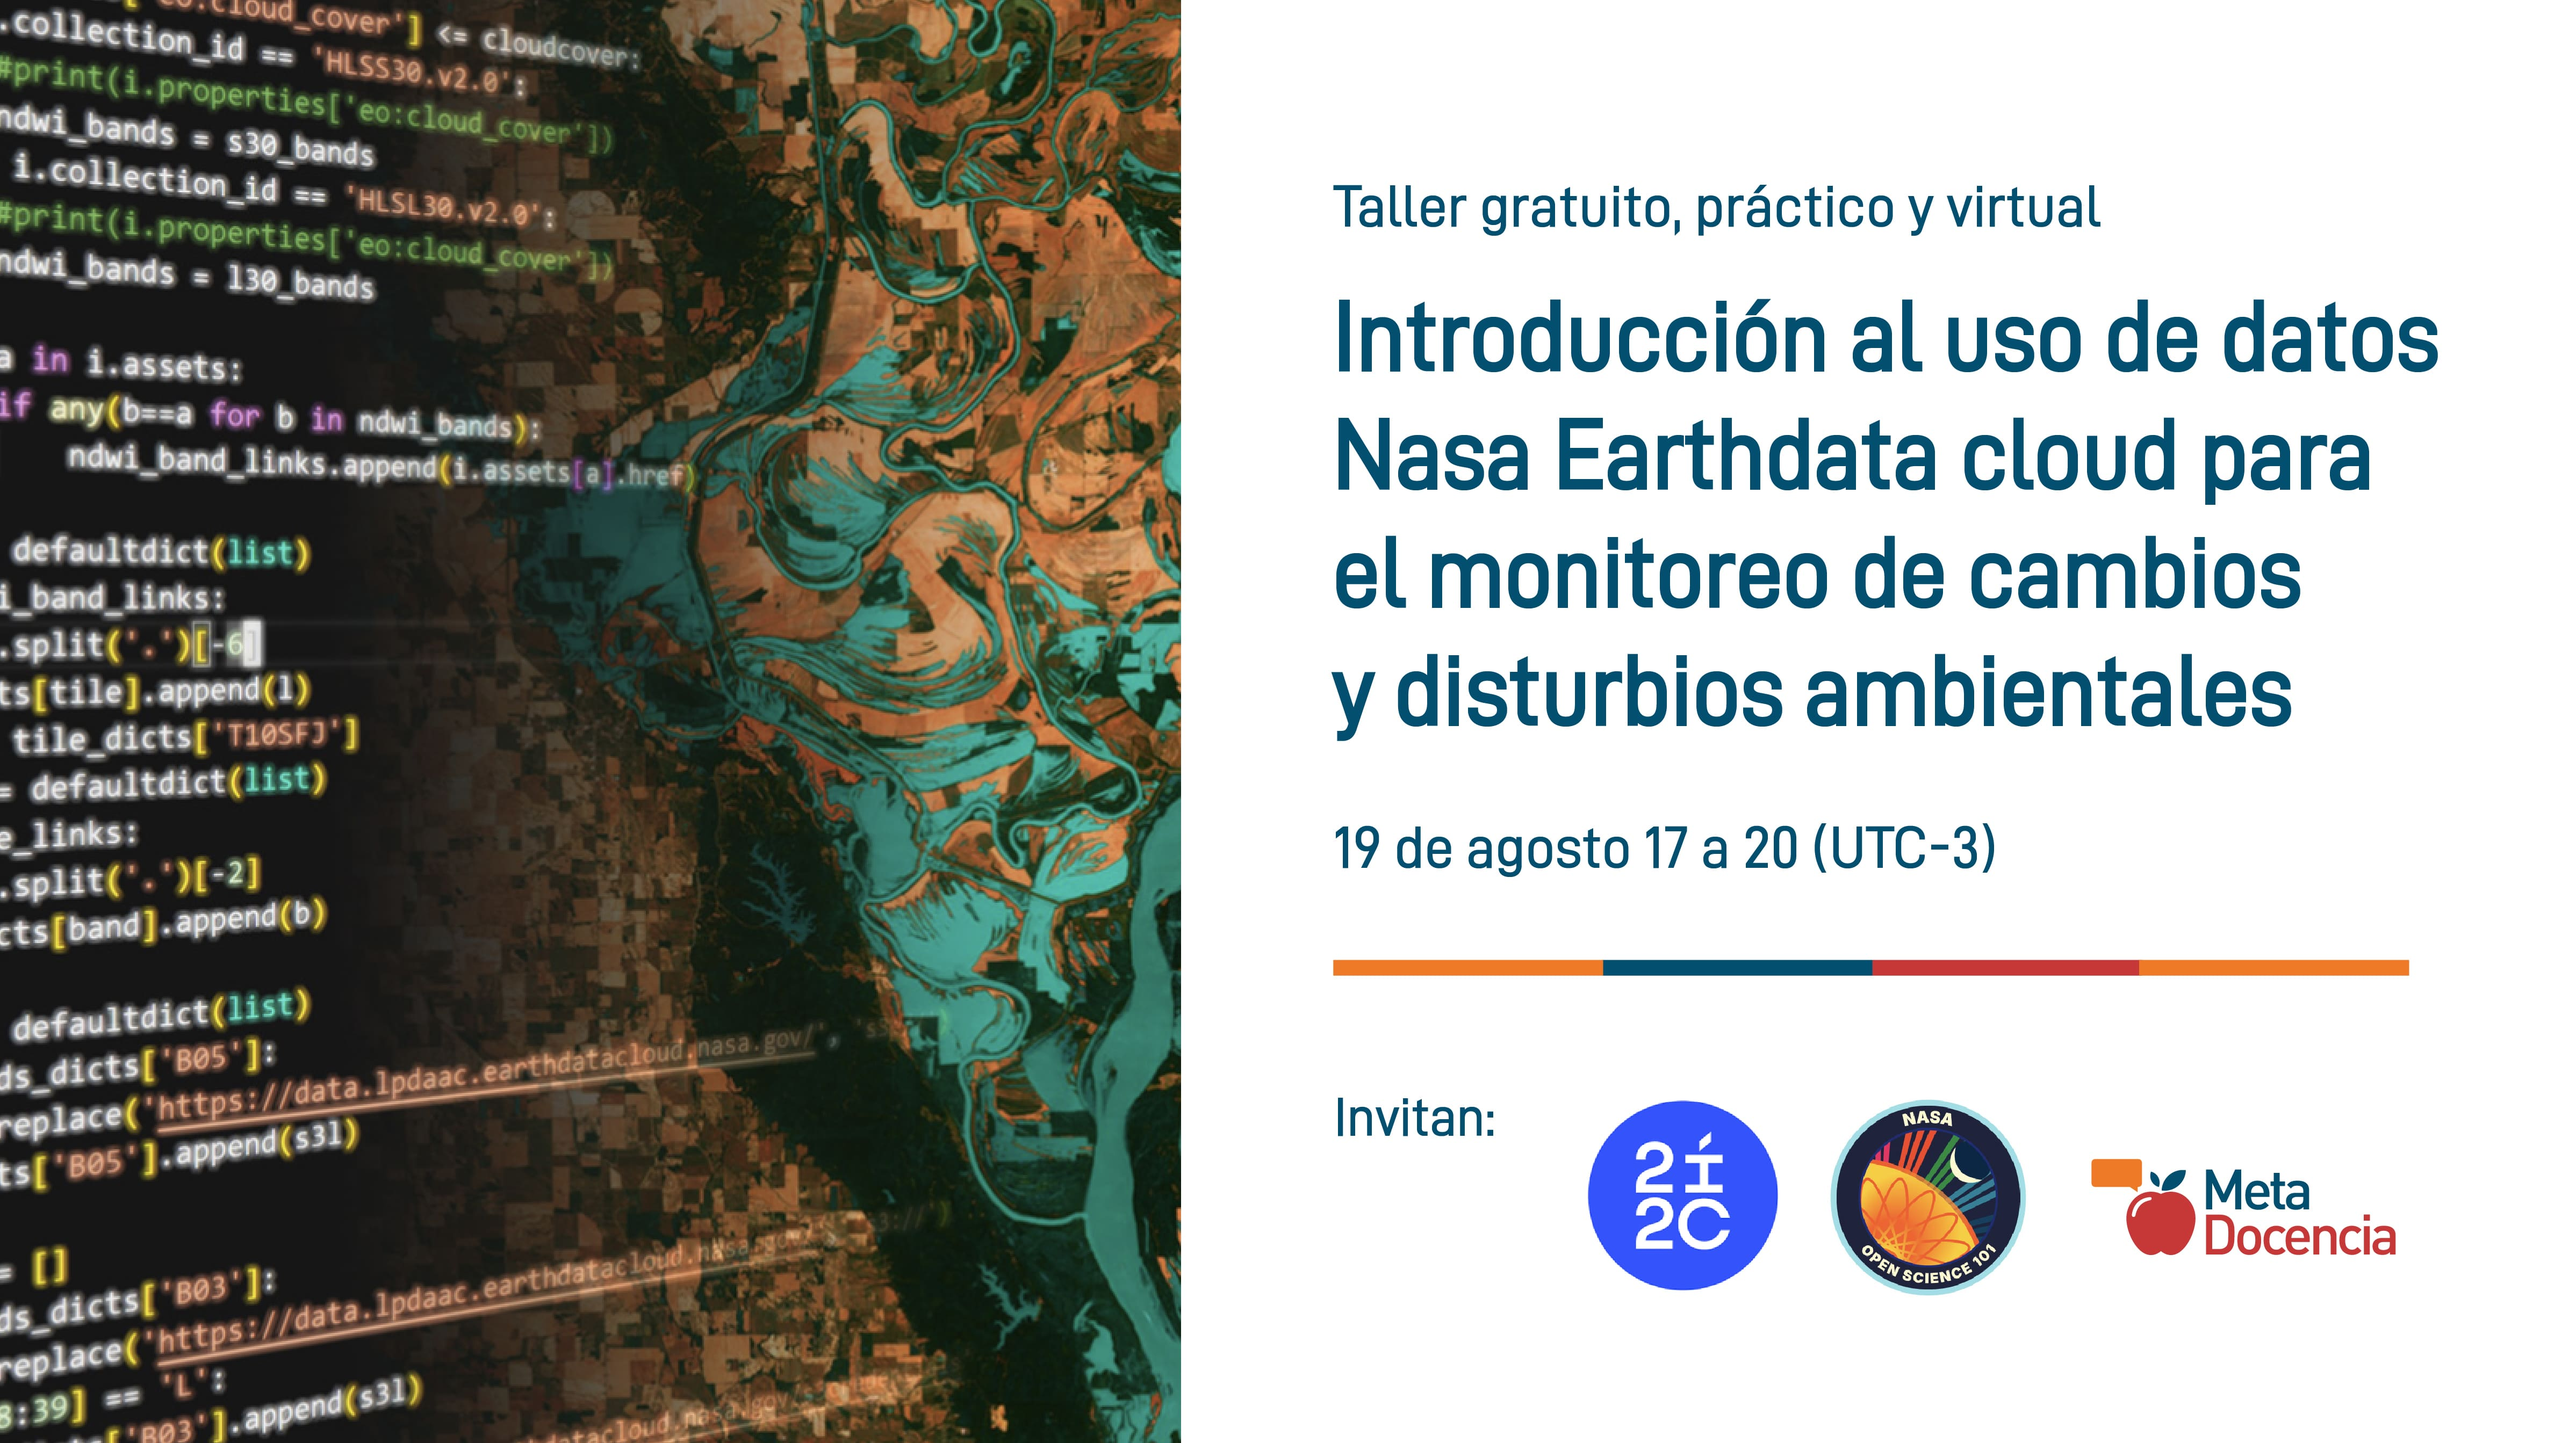
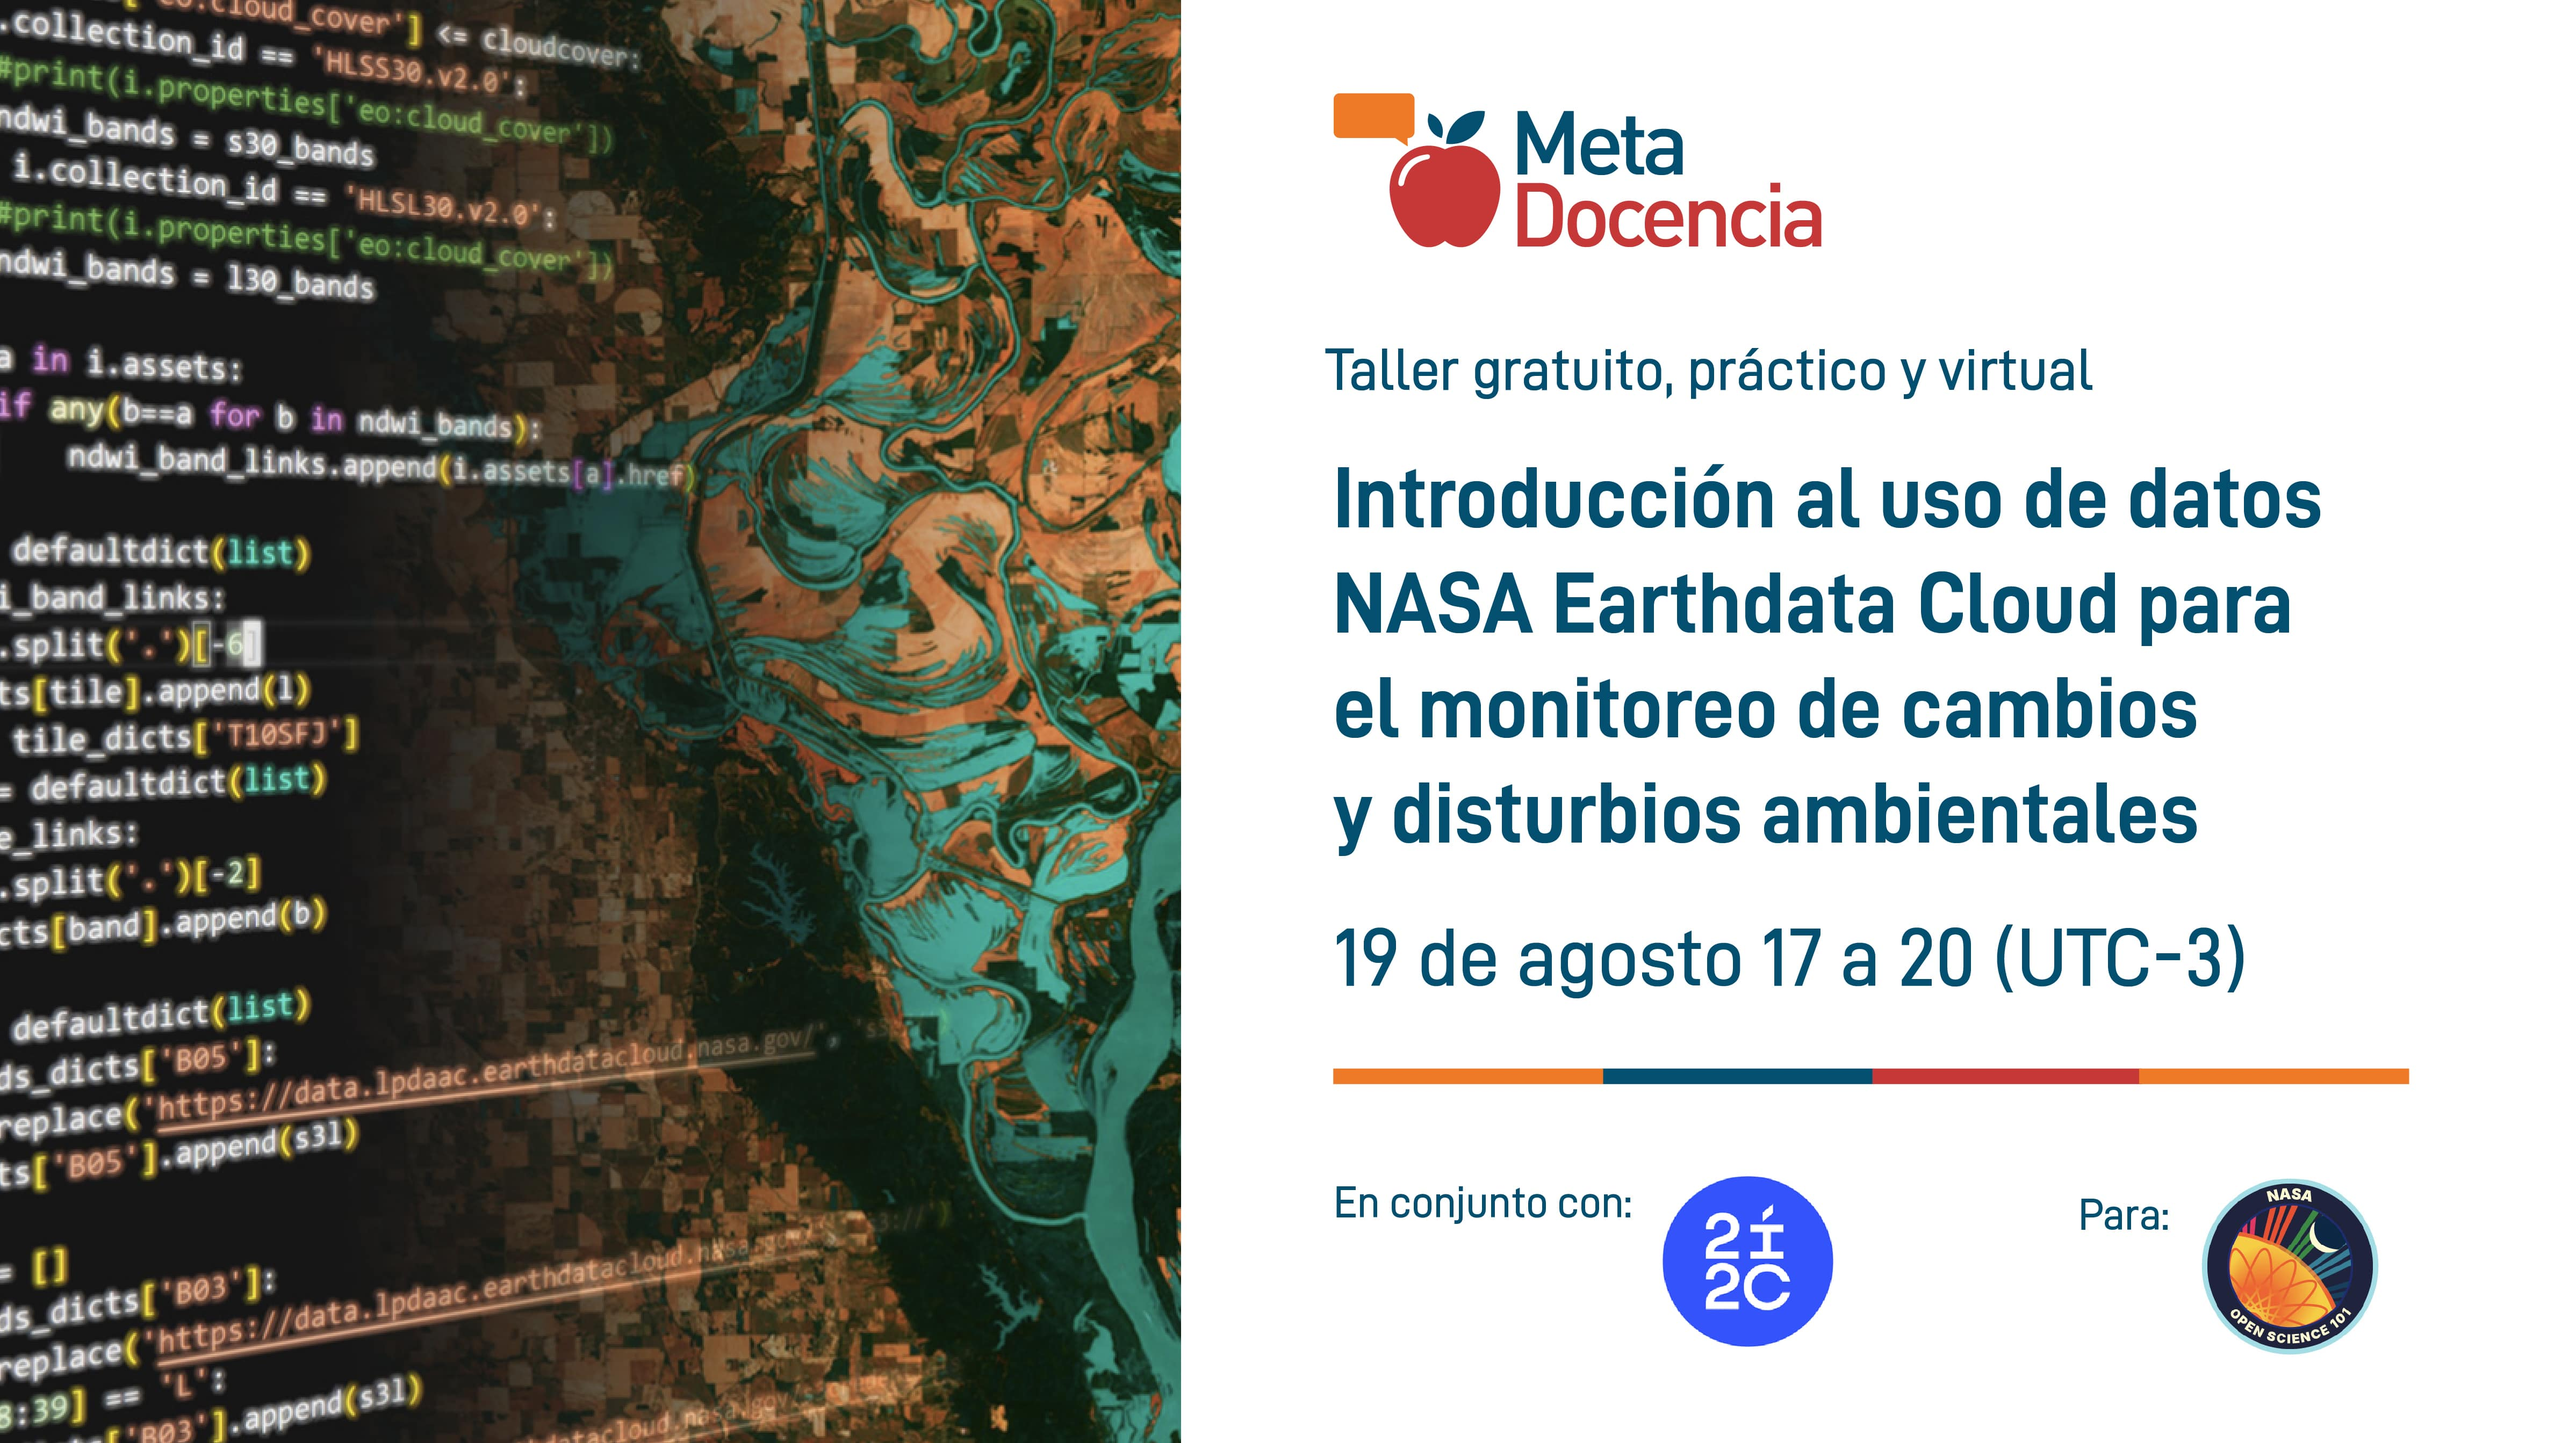
NASA Earthdata 5

diff --git a/content/es/curso/NASA Earthdata/index.md b/content/es/curso/NASA Earthdata/index.md
@@ -4,7 +4,7 @@ draft: false
 image:
   caption: 
   alt_text: "Imagen satelital con código"
-linktitle: Introducción al uso de datos Nasa Earthdata cloud para el monitoreo de cambios y disturbios ambientales
+linktitle: Introducción al uso de datos NASA Earthdata Cloud para el monitoreo de cambios y disturbios ambientales
 summary: Analizando cambios ambientales de forma reproducible con python y datos satelitales de la plataforma Earthdata Cloud de la NASA.
 title: Introducción al uso de datos Nasa Earthdata cloud para el monitoreo de cambios y disturbios ambientales
 authors: 
@@ -17,16 +17,17 @@ tags:
 
 {{% toc %}}
 
-Junto a la NASA y 2i2c, MetaDocencia invita a todas las personas de comunidades hispanohablantes interesadas en el análisis de fenómenos ambientales a participar de  un taller práctico y virtual de 3 horas.  En este taller, exploraremos cómo utilizar los datos satelitales de la plataforma Earthdata Cloud de la NASA, específicamente los productos OPERA, para el monitoreo de cambios y disturbios ambientales. Tomaremos como caso de estudio los cambios en la cobertura vegetal en la región de Maranhão, Brasil, con el objetivo de identificar patrones de deforestación utilizando Python y Jupyter Notebooks para trabajar de manera reproducible con los datos.
+Junto a la NASA y 2i2c, MetaDocencia invita a todas las personas hispanohablantes interesadas en el análisis de fenómenos ambientales a participar de  un taller práctico y virtual de 3 horas.  En este taller exploraremos cómo utilizar los datos satelitales de la plataforma **NASA Earthdata Cloud**, específicamente los **productos OPERA**, para el monitoreo de cambios y disturbios ambientales. Tomaremos como caso de estudio los cambios en la cobertura vegetal en la región de Maranhão, Brasil, con el objetivo de identificar patrones de deforestación a través de Jupyter Notebooks con código en Python para trabajar de manera reproducible con los datos.
+
 **La inscripción es gratuita y abierta**, y el taller tendrá certificado de asistencia emitido por MetaDocencia. El taller será en formato **virtual, sincrónico y 100% en español**.
 
 ### Motivaciones para participar 
 Entender los cambios en la superficie terrestre y sus consecuencias es crucial para la gestión sostenible de los recursos naturales. En este contexto, los productos OPERA de la NASA ofrecen una poderosa herramienta para monitorear modificaciones en la vegetación, las precipitaciones, las aguas superficiales y el uso del suelo. A través de este taller, MetaDocencia busca capacitar a los participantes para que puedan analizar estos cambios de manera reproducible, a través de Jupyter Notebooks con código en Python, con el fin de aplicar los resultados en la toma de decisiones informadas para estudios ambientales y planificación territorial.
 
 Quienes completen esta formación podrán:
-Acceder y visualizar los datos terrestres, disponibles a través de la plataforma Earthdata Cloud de la NASA, de una zona de interés específica.
-Tener una primera aproximación al uso de los nuevos productos satelitales de NASA OPERA dist alert para la evaluación de disturbios en la cobertura vegetal y el análisis de alertas ambientales. 
-Aplicar herramientas de código abierto para el análisis geoespacial utilizando flujos de trabajo reproducibles.  
+* Acceder y visualizar los datos terrestres, disponibles a través de la plataforma Earthdata Cloud de la NASA, de una zona de interés específica.
+* Tener una primera aproximación al uso de los nuevos productos satelitales de NASA OPERA DIST-ALERT para la evaluación de disturbios en la cobertura vegetal y el análisis de alertas ambientales. 
+* Aplicar herramientas de código abierto para el análisis geoespacial utilizando flujos de trabajo reproducibles.  
 
 **¿Para quién?**
 Este curso está dirigido a profesionales con conocimientos básicos en algún lenguaje de programación que deseen aprender a utilizar productos derivados de imágenes satelitales para el análisis de problemáticas ambientales, como la detección de deforestación y el monitoreo de cambios en la cobertura del suelo.
@@ -34,19 +35,23 @@ Este curso está dirigido a profesionales con conocimientos básicos en algún l
 
 ### ¿Qué _no_ incluye esta formación? 
 
-* Fundamentos de programación en python.
+* Fundamentos de programación.
 * Desarrollo extensivo de librerías de Python utilizadas a lo largo del tutorial.
 * Un enfoque profundo en técnicas de modelado geoespacial o análisis predictivo.
 * Teoría avanzada de conceptos relacionados con los datos geoespaciales. 
 
 ### Duración
 
-El taller será de 3 horas de duración, con pausas programadas cada 50 minutos. Durante el encuentro, se recorrerán las siguientes secciones:
+El taller será de 3 horas de duración, con pausas programadas cada 50 minutos. 
+
+### Programa
+
+Durante el encuentro, se recorrerán las siguientes secciones:
 * Fundamentos de teledetección.
-* aracterísticas de satélites y sensores
-* Introducción a sistemas de coordenadas de referencia
+* Características de satélites y sensores.
+* Introducción a sistemas de coordenadas de referencia.
 * Modelos de representación de la información geográfica: formato ráster y formato vectorial
-* Aplicación de la teledetección en problemáticas ambientales
+* Aplicación de la teledetección en problemáticas ambientales.
 * Utilización de productos OPERA de la NASA y plataforma NASA Earthdata.
 * Análisis de la deforestación en Maranhão a través de estudios de caso utilizando los productos OPERA.
 * Discusión y cierre.
@@ -55,11 +60,12 @@ El taller será de 3 horas de duración, con pausas programadas cada 50 minutos.
 
 Los participantes que asistan al taller recibirán un certificado de asistencia emitido por MetaDocencia.
 
+### Cómo participar
+
+Para sumarte debes completar este *[formulario de inscripción](https://docs.google.com/forms/d/e/1FAIpQLSdzB5Menz-SmMmuq1-MmiL2aSJJgg14fehjaBTrcMqzgUZCVg/viewform?usp=header)*.
+
+
 ### Materiales
-
-En esta sección compartiremos la presentación, los cuadernos computacionales, notas  y videos del curso.
-
-**¡Sírvete sin culpa!**
 
 ¿Te vienen bien cualquiera de nuestros contenidos? ¡Sírvete sin culpa! Nuestros materiales están disponibles en forma gratuita bajo [licencia CC BY 4.0](https://creativecommons.org/licenses/by/4.0/deed.es). Es decir, puedes reusar o editar cualquier material que aparece encima de estas líneas, lo único que pedimos a cambio es que incluyas una referencia a esta página web o la referencia del material cuando el material tenga una forma explícita de referenciarlo. Para más información, por favor escríbenos a formacion@metadocencia.org.
 
